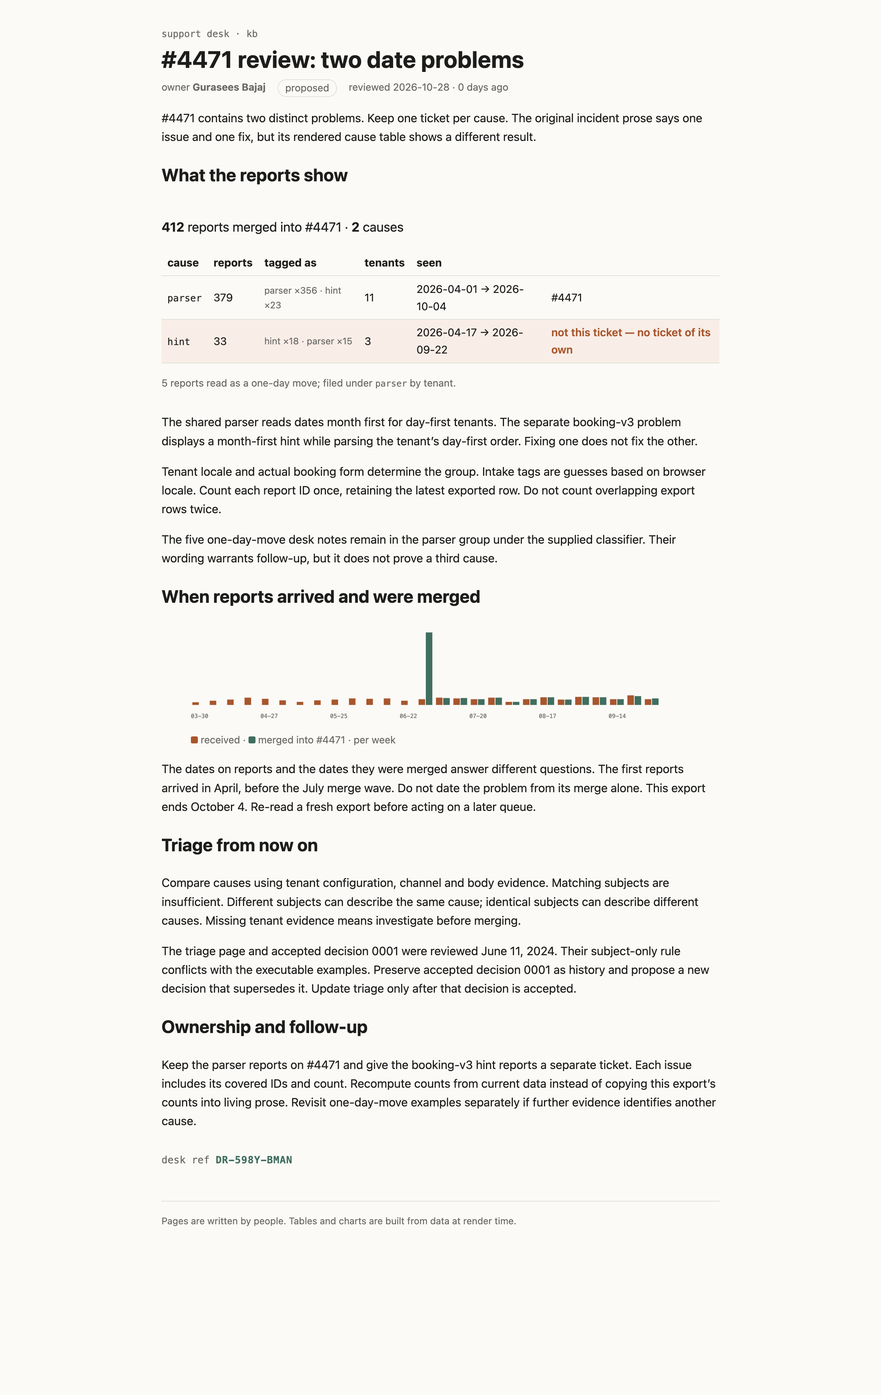
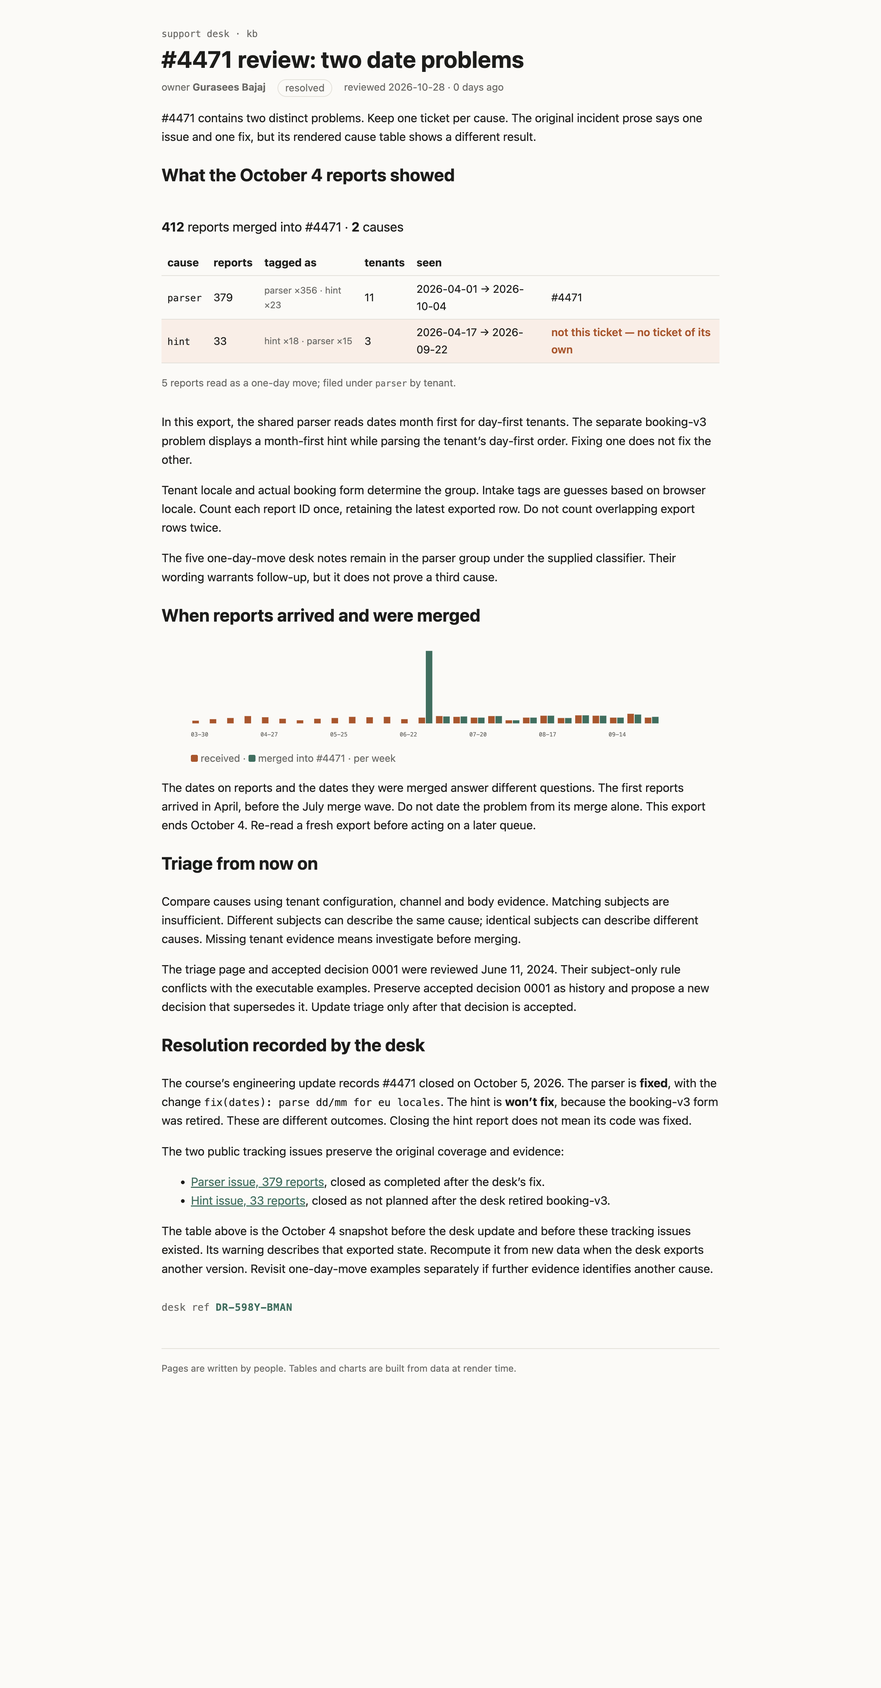
Record desk resolutions and distinguish completed from not planned

Changed region(s): [[0.1875, 0.0, 0.8125, 0.8384], [0.6562, 0.4037, 0.75, 0.4347], [0.5938, 0.4037, 0.625, 0.4347]]

diff --git a/preview/index.html b/preview/index.html
@@ -29,13 +29,6 @@
   footer.svelte-1ttlewg { margin-top: 3rem; color: var(--muted); font-size: 0.8rem; border-top: 1px solid var(--line); padding-top: 1rem; }
 
 
-  .sum.svelte-zn67d1 { font-size: 1.1rem; }
-  .tags.svelte-zn67d1 { color: var(--muted); font-size: 0.85em; }
-  .note.svelte-zn67d1 { color: var(--muted); font-size: 0.85em; }
-  .wrong.svelte-zn67d1 td:where(.svelte-zn67d1) { background: var(--warn-bg); }
-  .wrong.svelte-zn67d1 td:where(.svelte-zn67d1):last-child { color: var(--warn); font-weight: 600; }
-
-
   svg.svelte-11fujuy { width: 100%; max-width: 640px; }
   .in.svelte-11fujuy { fill: var(--warn); }
   .merged.svelte-11fujuy { fill: var(--accent); }
@@ -49,4 +42,11 @@
   .stamp.svelte-1oiudop { margin: 2rem 0 0; font: 0.85rem var(--mono); color: var(--muted); }
   .stamp.svelte-1oiudop b:where(.svelte-1oiudop) { color: var(--accent); letter-spacing: 0.04em; }
   .missing.svelte-1oiudop { color: var(--warn); }
-</style></head><body><!--[--><div class="kb svelte-1ttlewg"><header><a class="crumb svelte-1ttlewg" href="/kb">support desk · kb</a> <h1 class="svelte-1ttlewg">#4471 review: two date problems</h1> <p class="meta svelte-1ttlewg"><span>owner <b>Gurasees Bajaj</b></span> <span class="status proposed svelte-1ttlewg">proposed</span> <span class="svelte-1ttlewg">reviewed 2026-10-28 · 0 days ago</span></p></header> <!--[-1--><!--]--> <main><p>#4471 contains two distinct problems. Keep one ticket per cause. The original incident prose says one issue and one fix, but its rendered cause table shows a different result.</p> <h2>What the reports show</h2> <div class="cause-table-wrap svelte-1y5cxop"><p class="sum svelte-zn67d1"><strong>412</strong> reports merged into #4471 · <strong>2</strong> causes</p> <table><thead><tr><th>cause</th><th>reports</th><th>tagged as</th><th>tenants</th><th>seen</th><th></th></tr></thead><tbody><!--[--><tr class="svelte-zn67d1"><td class="svelte-zn67d1"><code>parser</code></td><td class="svelte-zn67d1">379</td><td class="tags svelte-zn67d1">parser ×356 · hint ×23</td><td class="svelte-zn67d1">11</td><td class="svelte-zn67d1">2026-04-01 → 2026-10-04</td><td class="svelte-zn67d1">#4471</td></tr><tr class="svelte-zn67d1 wrong"><td class="svelte-zn67d1"><code>hint</code></td><td class="svelte-zn67d1">33</td><td class="tags svelte-zn67d1">hint ×18 · parser ×15</td><td class="svelte-zn67d1">3</td><td class="svelte-zn67d1">2026-04-17 → 2026-09-22</td><td class="svelte-zn67d1">not this ticket — no ticket of its own</td></tr><!--]--></tbody></table> <!--[--><!--[0--><p class="note svelte-zn67d1">5 reports read as a one-day move; filed under <code>parser</code> by tenant.</p><!--]--><!--[-1--><!--]--><!--]--><!----></div> <p>The shared parser reads dates month first for day-first tenants. The separate booking-v3 problem displays a month-first hint while parsing the tenant’s day-first order. Fixing one does not fix the other.</p> <p>Tenant locale and actual booking form determine the group. Intake tags are guesses based on browser locale. Count each report ID once, retaining the latest exported row. Do not count overlapping export rows twice.</p> <p>The five one-day-move desk notes remain in the parser group under the supplied classifier. Their wording warrants follow-up, but it does not prove a third cause.</p> <h2>When reports arrived and were merged</h2> <figure><svg viewBox="0 0 648 140" role="img" aria-label="reports received and merged into #4471, per week" class="svelte-11fujuy"><!--[--><rect class="in svelte-11fujuy" x="2" y="106.29629629629629" width="9" height="3.7037037037037033"></rect><rect class="merged svelte-11fujuy" x="12" y="110" width="9" height="0"></rect><!--[0--><text x="12" y="128" class="svelte-11fujuy">03-30</text><!--]--><rect class="in svelte-11fujuy" x="26" y="104.17989417989418" width="9" height="5.82010582010582"></rect><rect class="merged svelte-11fujuy" x="36" y="110" width="9" height="0"></rect><!--[-1--><!--]--><rect class="in svelte-11fujuy" x="50" y="102.5925925925926" width="9" height="7.4074074074074066"></rect><rect class="merged svelte-11fujuy" x="60" y="110" width="9" height="0"></rect><!--[-1--><!--]--><rect class="in svelte-11fujuy" x="74" y="99.94708994708995" width="9" height="10.052910052910052"></rect><rect class="merged svelte-11fujuy" x="84" y="110" width="9" height="0"></rect><!--[-1--><!--]--><rect class="in svelte-11fujuy" x="98" y="101.53439153439153" width="9" height="8.465608465608465"></rect><rect class="merged svelte-11fujuy" x="108" y="110" width="9" height="0"></rect><!--[0--><text x="108" y="128" class="svelte-11fujuy">04-27</text><!--]--><rect class="in svelte-11fujuy" x="122" y="103.65079365079364" width="9" height="6.349206349206349"></rect><rect class="merged svelte-11fujuy" x="132" y="110" width="9" height="0"></rect><!--[-1--><!--]--><rect class="in svelte-11fujuy" x="146" y="105.76719576719577" width="9" height="4.232804232804233"></rect><rect class="merged svelte-11fujuy" x="156" y="110" width="9" height="0"></rect><!--[-1--><!--]--><rect class="in svelte-11fujuy" x="170" y="103.65079365079364" width="9" height="6.349206349206349"></rect><rect class="merged svelte-11fujuy" x="180" y="110" width="9" height="0"></rect><!--[-1--><!--]--><rect class="in svelte-11fujuy" x="194" y="102.5925925925926" width="9" height="7.4074074074074066"></rect><rect class="merged svelte-11fujuy" x="204" y="110" width="9" height="0"></rect><!--[0--><text x="204" y="128" class="svelte-11fujuy">05-25</text><!--]--><rect class="in svelte-11fujuy" x="218" y="101.00529100529101" width="9" height="8.994708994708994"></rect><rect class="merged svelte-11fujuy" x="228" y="110" width="9" height="0"></rect><!--[-1--><!--]--><rect class="in svelte-11fujuy" x="242" y="101.53439153439153" width="9" height="8.465608465608465"></rect><rect class="merged svelte-11fujuy" x="252" y="110" width="9" height="0"></rect><!--[-1--><!--]--><rect class="in svelte-11fujuy" x="266" y="101.00529100529101" width="9" height="8.994708994708994"></rect><rect class="merged svelte-11fujuy" x="276" y="110" width="9" height="0"></rect><!--[-1--><!--]--><rect class="in svelte-11fujuy" x="290" y="104.17989417989418" width="9" height="5.82010582010582"></rect><rect class="merged svelte-11fujuy" x="300" y="110" width="9" height="0"></rect><!--[0--><text x="300" y="128" class="svelte-11fujuy">06-22</text><!--]--><rect class="in svelte-11fujuy" x="314" y="102.06349206349206" width="9" height="7.936507936507936"></rect><rect class="merged svelte-11fujuy" x="324" y="10" width="9" height="100"></rect><!--[-1--><!--]--><rect class="in svelte-11fujuy" x="338" y="99.94708994708995" width="9" height="10.052910052910052"></rect><rect class="merged svelte-11fujuy" x="348" y="100.47619047619048" width="9" height="9.523809523809524"></rect><!--[-1--><!--]--><rect class="in svelte-11fujuy" x="362" y="101.00529100529101" width="9" height="8.994708994708994"></rect><rect class="merged svelte-11fujuy" x="372" y="100.47619047619048" width="9" height="9.523809523809524"></rect><!--[-1--><!--]--><rect class="in svelte-11fujuy" x="386" y="102.06349206349206" width="9" height="7.936507936507936"></rect><rect class="merged svelte-11fujuy" x="396" y="102.06349206349206" width="9" height="7.936507936507936"></rect><!--[0--><text x="396" y="128" class="svelte-11fujuy">07-20</text><!--]--><rect class="in svelte-11fujuy" x="410" y="99.94708994708995" width="9" height="10.052910052910052"></rect><rect class="merged svelte-11fujuy" x="420" y="99.94708994708995" width="9" height="10.052910052910052"></rect><!--[-1--><!--]--><rect class="in svelte-11fujuy" x="434" y="105.76719576719577" width="9" height="4.232804232804233"></rect><rect class="merged svelte-11fujuy" x="444" y="105.76719576719577" width="9" height="4.232804232804233"></rect><!--[-1--><!--]--><rect class="in svelte-11fujuy" x="458" y="102.06349206349206" width="9" height="7.936507936507936"></rect><rect class="merged svelte-11fujuy" x="468" y="102.06349206349206" width="9" height="7.936507936507936"></rect><!--[-1--><!--]--><rect class="in svelte-11fujuy" x="482" y="99.41798941798942" width="9" height="10.582010582010582"></rect><rect class="merged svelte-11fujuy" x="492" y="99.41798941798942" width="9" height="10.582010582010582"></rect><!--[0--><text x="492" y="128" class="svelte-11fujuy">08-17</text><!--]--><rect class="in svelte-11fujuy" x="506" y="102.5925925925926" width="9" height="7.4074074074074066"></rect><rect class="merged svelte-11fujuy" x="516" y="102.5925925925926" width="9" height="7.4074074074074066"></rect><!--[-1--><!--]--><rect class="in svelte-11fujuy" x="530" y="98.88888888888889" width="9" height="11.11111111111111"></rect><rect class="merged svelte-11fujuy" x="540" y="98.88888888888889" width="9" height="11.11111111111111"></rect><!--[-1--><!--]--><rect class="in svelte-11fujuy" x="554" y="99.41798941798942" width="9" height="10.582010582010582"></rect><rect class="merged svelte-11fujuy" x="564" y="99.41798941798942" width="9" height="10.582010582010582"></rect><!--[-1--><!--]--><rect class="in svelte-11fujuy" x="578" y="102.06349206349206" width="9" height="7.936507936507936"></rect><rect class="merged svelte-11fujuy" x="588" y="102.06349206349206" width="9" height="7.936507936507936"></rect><!--[0--><text x="588" y="128" class="svelte-11fujuy">09-14</text><!--]--><rect class="in svelte-11fujuy" x="602" y="96.77248677248677" width="9" height="13.227513227513226"></rect><rect class="merged svelte-11fujuy" x="612" y="97.83068783068784" width="9" height="12.16931216931217"></rect><!--[-1--><!--]--><rect class="in svelte-11fujuy" x="626" y="102.06349206349206" width="9" height="7.936507936507936"></rect><rect class="merged svelte-11fujuy" x="636" y="101.00529100529101" width="9" height="8.994708994708994"></rect><!--[-1--><!--]--><!--]--></svg> <figcaption class="svelte-11fujuy"><span class="key in svelte-11fujuy"></span> received · <span class="key merged svelte-11fujuy"></span> merged into #4471 · per week</figcaption></figure><!----> <p>The dates on reports and the dates they were merged answer different questions. The first reports arrived in April, before the July merge wave. Do not date the problem from its merge alone. This export ends October 4. Re-read a fresh export before acting on a later queue.</p> <h2>Triage from now on</h2> <p>Compare causes using tenant configuration, channel and body evidence. Matching subjects are insufficient. Different subjects can describe the same cause; identical subjects can describe different causes. Missing tenant evidence means investigate before merging.</p> <p>The triage page and accepted decision 0001 were reviewed June 11, 2024. Their subject-only rule conflicts with the executable examples. Preserve accepted decision 0001 as history and propose a new decision that supersedes it. Update triage only after that decision is accepted.</p> <h2>Ownership and follow-up</h2> <p>Keep the parser reports on #4471 and give the booking-v3 hint reports a separate ticket. Each issue includes its covered IDs and count. Recompute counts from current data instead of copying this export’s counts into living prose. Revisit one-day-move examples separately if further evidence identifies another cause.</p> <!--[0--><p class="stamp svelte-1oiudop">desk ref <b class="svelte-1oiudop">DR-598Y-BMAN</b></p><!--]--><!----><!----></main> <footer class="svelte-1ttlewg">Pages are written by people. Tables and charts are built from data at render time.</footer></div><!--]--></body></html>
+
+
+  .sum.svelte-zn67d1 { font-size: 1.1rem; }
+  .tags.svelte-zn67d1 { color: var(--muted); font-size: 0.85em; }
+  .note.svelte-zn67d1 { color: var(--muted); font-size: 0.85em; }
+  .wrong.svelte-zn67d1 td:where(.svelte-zn67d1) { background: var(--warn-bg); }
+  .wrong.svelte-zn67d1 td:where(.svelte-zn67d1):last-child { color: var(--warn); font-weight: 600; }
+</style></head><body><!--[--><div class="kb svelte-1ttlewg"><header><a class="crumb svelte-1ttlewg" href="/kb">support desk · kb</a> <h1 class="svelte-1ttlewg">#4471 review: two date problems</h1> <p class="meta svelte-1ttlewg"><span>owner <b>Gurasees Bajaj</b></span> <span class="status resolved svelte-1ttlewg">resolved</span> <span class="svelte-1ttlewg">reviewed 2026-10-28 · 0 days ago</span></p></header> <!--[-1--><!--]--> <main><p>#4471 contains two distinct problems. Keep one ticket per cause. The original incident prose says one issue and one fix, but its rendered cause table shows a different result.</p> <h2>What the October 4 reports showed</h2> <div class="cause-table-wrap svelte-1y5cxop"><p class="sum svelte-zn67d1"><strong>412</strong> reports merged into #4471 · <strong>2</strong> causes</p> <table><thead><tr><th>cause</th><th>reports</th><th>tagged as</th><th>tenants</th><th>seen</th><th></th></tr></thead><tbody><!--[--><tr class="svelte-zn67d1"><td class="svelte-zn67d1"><code>parser</code></td><td class="svelte-zn67d1">379</td><td class="tags svelte-zn67d1">parser ×356 · hint ×23</td><td class="svelte-zn67d1">11</td><td class="svelte-zn67d1">2026-04-01 → 2026-10-04</td><td class="svelte-zn67d1">#4471</td></tr><tr class="svelte-zn67d1 wrong"><td class="svelte-zn67d1"><code>hint</code></td><td class="svelte-zn67d1">33</td><td class="tags svelte-zn67d1">hint ×18 · parser ×15</td><td class="svelte-zn67d1">3</td><td class="svelte-zn67d1">2026-04-17 → 2026-09-22</td><td class="svelte-zn67d1">not this ticket — no ticket of its own</td></tr><!--]--></tbody></table> <!--[--><!--[0--><p class="note svelte-zn67d1">5 reports read as a one-day move; filed under <code>parser</code> by tenant.</p><!--]--><!--[-1--><!--]--><!--]--><!----></div> <p>In this export, the shared parser reads dates month first for day-first tenants. The separate booking-v3 problem displays a month-first hint while parsing the tenant’s day-first order. Fixing one does not fix the other.</p> <p>Tenant locale and actual booking form determine the group. Intake tags are guesses based on browser locale. Count each report ID once, retaining the latest exported row. Do not count overlapping export rows twice.</p> <p>The five one-day-move desk notes remain in the parser group under the supplied classifier. Their wording warrants follow-up, but it does not prove a third cause.</p> <h2>When reports arrived and were merged</h2> <figure><svg viewBox="0 0 648 140" role="img" aria-label="reports received and merged into #4471, per week" class="svelte-11fujuy"><!--[--><rect class="in svelte-11fujuy" x="2" y="106.29629629629629" width="9" height="3.7037037037037033"></rect><rect class="merged svelte-11fujuy" x="12" y="110" width="9" height="0"></rect><!--[0--><text x="12" y="128" class="svelte-11fujuy">03-30</text><!--]--><rect class="in svelte-11fujuy" x="26" y="104.17989417989418" width="9" height="5.82010582010582"></rect><rect class="merged svelte-11fujuy" x="36" y="110" width="9" height="0"></rect><!--[-1--><!--]--><rect class="in svelte-11fujuy" x="50" y="102.5925925925926" width="9" height="7.4074074074074066"></rect><rect class="merged svelte-11fujuy" x="60" y="110" width="9" height="0"></rect><!--[-1--><!--]--><rect class="in svelte-11fujuy" x="74" y="99.94708994708995" width="9" height="10.052910052910052"></rect><rect class="merged svelte-11fujuy" x="84" y="110" width="9" height="0"></rect><!--[-1--><!--]--><rect class="in svelte-11fujuy" x="98" y="101.53439153439153" width="9" height="8.465608465608465"></rect><rect class="merged svelte-11fujuy" x="108" y="110" width="9" height="0"></rect><!--[0--><text x="108" y="128" class="svelte-11fujuy">04-27</text><!--]--><rect class="in svelte-11fujuy" x="122" y="103.65079365079364" width="9" height="6.349206349206349"></rect><rect class="merged svelte-11fujuy" x="132" y="110" width="9" height="0"></rect><!--[-1--><!--]--><rect class="in svelte-11fujuy" x="146" y="105.76719576719577" width="9" height="4.232804232804233"></rect><rect class="merged svelte-11fujuy" x="156" y="110" width="9" height="0"></rect><!--[-1--><!--]--><rect class="in svelte-11fujuy" x="170" y="103.65079365079364" width="9" height="6.349206349206349"></rect><rect class="merged svelte-11fujuy" x="180" y="110" width="9" height="0"></rect><!--[-1--><!--]--><rect class="in svelte-11fujuy" x="194" y="102.5925925925926" width="9" height="7.4074074074074066"></rect><rect class="merged svelte-11fujuy" x="204" y="110" width="9" height="0"></rect><!--[0--><text x="204" y="128" class="svelte-11fujuy">05-25</text><!--]--><rect class="in svelte-11fujuy" x="218" y="101.00529100529101" width="9" height="8.994708994708994"></rect><rect class="merged svelte-11fujuy" x="228" y="110" width="9" height="0"></rect><!--[-1--><!--]--><rect class="in svelte-11fujuy" x="242" y="101.53439153439153" width="9" height="8.465608465608465"></rect><rect class="merged svelte-11fujuy" x="252" y="110" width="9" height="0"></rect><!--[-1--><!--]--><rect class="in svelte-11fujuy" x="266" y="101.00529100529101" width="9" height="8.994708994708994"></rect><rect class="merged svelte-11fujuy" x="276" y="110" width="9" height="0"></rect><!--[-1--><!--]--><rect class="in svelte-11fujuy" x="290" y="104.17989417989418" width="9" height="5.82010582010582"></rect><rect class="merged svelte-11fujuy" x="300" y="110" width="9" height="0"></rect><!--[0--><text x="300" y="128" class="svelte-11fujuy">06-22</text><!--]--><rect class="in svelte-11fujuy" x="314" y="102.06349206349206" width="9" height="7.936507936507936"></rect><rect class="merged svelte-11fujuy" x="324" y="10" width="9" height="100"></rect><!--[-1--><!--]--><rect class="in svelte-11fujuy" x="338" y="99.94708994708995" width="9" height="10.052910052910052"></rect><rect class="merged svelte-11fujuy" x="348" y="100.47619047619048" width="9" height="9.523809523809524"></rect><!--[-1--><!--]--><rect class="in svelte-11fujuy" x="362" y="101.00529100529101" width="9" height="8.994708994708994"></rect><rect class="merged svelte-11fujuy" x="372" y="100.47619047619048" width="9" height="9.523809523809524"></rect><!--[-1--><!--]--><rect class="in svelte-11fujuy" x="386" y="102.06349206349206" width="9" height="7.936507936507936"></rect><rect class="merged svelte-11fujuy" x="396" y="102.06349206349206" width="9" height="7.936507936507936"></rect><!--[0--><text x="396" y="128" class="svelte-11fujuy">07-20</text><!--]--><rect class="in svelte-11fujuy" x="410" y="99.94708994708995" width="9" height="10.052910052910052"></rect><rect class="merged svelte-11fujuy" x="420" y="99.94708994708995" width="9" height="10.052910052910052"></rect><!--[-1--><!--]--><rect class="in svelte-11fujuy" x="434" y="105.76719576719577" width="9" height="4.232804232804233"></rect><rect class="merged svelte-11fujuy" x="444" y="105.76719576719577" width="9" height="4.232804232804233"></rect><!--[-1--><!--]--><rect class="in svelte-11fujuy" x="458" y="102.06349206349206" width="9" height="7.936507936507936"></rect><rect class="merged svelte-11fujuy" x="468" y="102.06349206349206" width="9" height="7.936507936507936"></rect><!--[-1--><!--]--><rect class="in svelte-11fujuy" x="482" y="99.41798941798942" width="9" height="10.582010582010582"></rect><rect class="merged svelte-11fujuy" x="492" y="99.41798941798942" width="9" height="10.582010582010582"></rect><!--[0--><text x="492" y="128" class="svelte-11fujuy">08-17</text><!--]--><rect class="in svelte-11fujuy" x="506" y="102.5925925925926" width="9" height="7.4074074074074066"></rect><rect class="merged svelte-11fujuy" x="516" y="102.5925925925926" width="9" height="7.4074074074074066"></rect><!--[-1--><!--]--><rect class="in svelte-11fujuy" x="530" y="98.88888888888889" width="9" height="11.11111111111111"></rect><rect class="merged svelte-11fujuy" x="540" y="98.88888888888889" width="9" height="11.11111111111111"></rect><!--[-1--><!--]--><rect class="in svelte-11fujuy" x="554" y="99.41798941798942" width="9" height="10.582010582010582"></rect><rect class="merged svelte-11fujuy" x="564" y="99.41798941798942" width="9" height="10.582010582010582"></rect><!--[-1--><!--]--><rect class="in svelte-11fujuy" x="578" y="102.06349206349206" width="9" height="7.936507936507936"></rect><rect class="merged svelte-11fujuy" x="588" y="102.06349206349206" width="9" height="7.936507936507936"></rect><!--[0--><text x="588" y="128" class="svelte-11fujuy">09-14</text><!--]--><rect class="in svelte-11fujuy" x="602" y="96.77248677248677" width="9" height="13.227513227513226"></rect><rect class="merged svelte-11fujuy" x="612" y="97.83068783068784" width="9" height="12.16931216931217"></rect><!--[-1--><!--]--><rect class="in svelte-11fujuy" x="626" y="102.06349206349206" width="9" height="7.936507936507936"></rect><rect class="merged svelte-11fujuy" x="636" y="101.00529100529101" width="9" height="8.994708994708994"></rect><!--[-1--><!--]--><!--]--></svg> <figcaption class="svelte-11fujuy"><span class="key in svelte-11fujuy"></span> received · <span class="key merged svelte-11fujuy"></span> merged into #4471 · per week</figcaption></figure><!----> <p>The dates on reports and the dates they were merged answer different questions. The first reports arrived in April, before the July merge wave. Do not date the problem from its merge alone. This export ends October 4. Re-read a fresh export before acting on a later queue.</p> <h2>Triage from now on</h2> <p>Compare causes using tenant configuration, channel and body evidence. Matching subjects are insufficient. Different subjects can describe the same cause; identical subjects can describe different causes. Missing tenant evidence means investigate before merging.</p> <p>The triage page and accepted decision 0001 were reviewed June 11, 2024. Their subject-only rule conflicts with the executable examples. Preserve accepted decision 0001 as history and propose a new decision that supersedes it. Update triage only after that decision is accepted.</p> <h2>Resolution recorded by the desk</h2> <p>The course’s engineering update records #4471 closed on October 5, 2026. The parser is <strong>fixed</strong>, with the change <code>fix(dates): parse dd/mm for eu locales</code>. The hint is <strong>won’t fix</strong>, because the booking-v3 form was retired. These are different outcomes. Closing the hint report does not mean its code was fixed.</p> <p>The two public tracking issues preserve the original coverage and evidence:</p> <ul><li><a href="https://github.com/gsingh-honsla/mega-s01e03-what-it-shows/issues/1" rel="nofollow">Parser issue, 379 reports</a>, closed as completed after the desk’s fix.</li> <li><a href="https://github.com/gsingh-honsla/mega-s01e03-what-it-shows/issues/2" rel="nofollow">Hint issue, 33 reports</a>, closed as not planned after the desk retired booking-v3.</li></ul> <p>The table above is the October 4 snapshot before the desk update and before these tracking issues existed. Its warning describes that exported state. Recompute it from new data when the desk exports another version. Revisit one-day-move examples separately if further evidence identifies another cause.</p> <!--[0--><p class="stamp svelte-1oiudop">desk ref <b class="svelte-1oiudop">DR-598Y-BMAN</b></p><!--]--><!----><!----></main> <footer class="svelte-1ttlewg">Pages are written by people. Tables and charts are built from data at render time.</footer></div><!--]--></body></html>

diff --git a/README.md b/README.md
@@ -1,6 +1,6 @@
 # What it shows
 
-Proposed public submission for MEGA.dev Challenge S01E03. Prepared by Gurasees Bajaj with Codex. Not submitted or accepted yet.
+Public submission for MEGA.dev Challenge S01E03. Prepared by Gurasees Bajaj with Codex. The course accepted the two issue classifications. Final page acceptance is pending.
 
 ## Findings
 
@@ -30,8 +30,13 @@ The current renderer uses global npm Svelte 5.57.3 and mdsvex 0.12.8, plus Homeb
 
 Run `node render.mjs` from this directory. Open `preview/index.html` in a browser. The renderer writes no public endpoint and does not publish anything.
 
-## Proposed publication
+## Publication and resolution
 
-Create one dedicated public GitHub repository, gsingh-honsla/mega-s01e03-what-it-shows. Publish only this deliverables directory, then create two GitHub issues from the drafts. Do not publish the Personal Orchestration repository, other lessons, private course receipts, sign-in data or unrelated files. Public readers can see the course-provided fictional support data and the author's name. The course only reads the repository. Delete the repository after acceptance if desired.
+Published with Gurasees's approval to [gsingh-honsla/mega-s01e03-what-it-shows](https://github.com/gsingh-honsla/mega-s01e03-what-it-shows). The course accepted both issue classifications, then exposed an engineering update that records #4471 closed October 5, 2026.
 
-Obtain explicit approval before repository creation, push or issue publication. Refresh the course export and recompute before final submission. This draft contains no course acceptance or earned-card claim.
+- [Parser issue #1](https://github.com/gsingh-honsla/mega-s01e03-what-it-shows/issues/1) is closed as completed. The desk fixed the parser with `fix(dates): parse dd/mm for eu locales`.
+- [Hint issue #2](https://github.com/gsingh-honsla/mega-s01e03-what-it-shows/issues/2) is closed as not planned. The desk retired booking-v3 and marked the hint won't fix.
+
+The signed page distinguishes those outcomes and labels the rendered table as the historical October 4 snapshot. The fresh export matched the original SHA-256 exactly before publication.
+
+This dedicated repository contains only the reviewed Challenge package. Public readers can see the course-provided fictional support data and the author's name. The course only reads it. Delete the repository after acceptance if desired.
